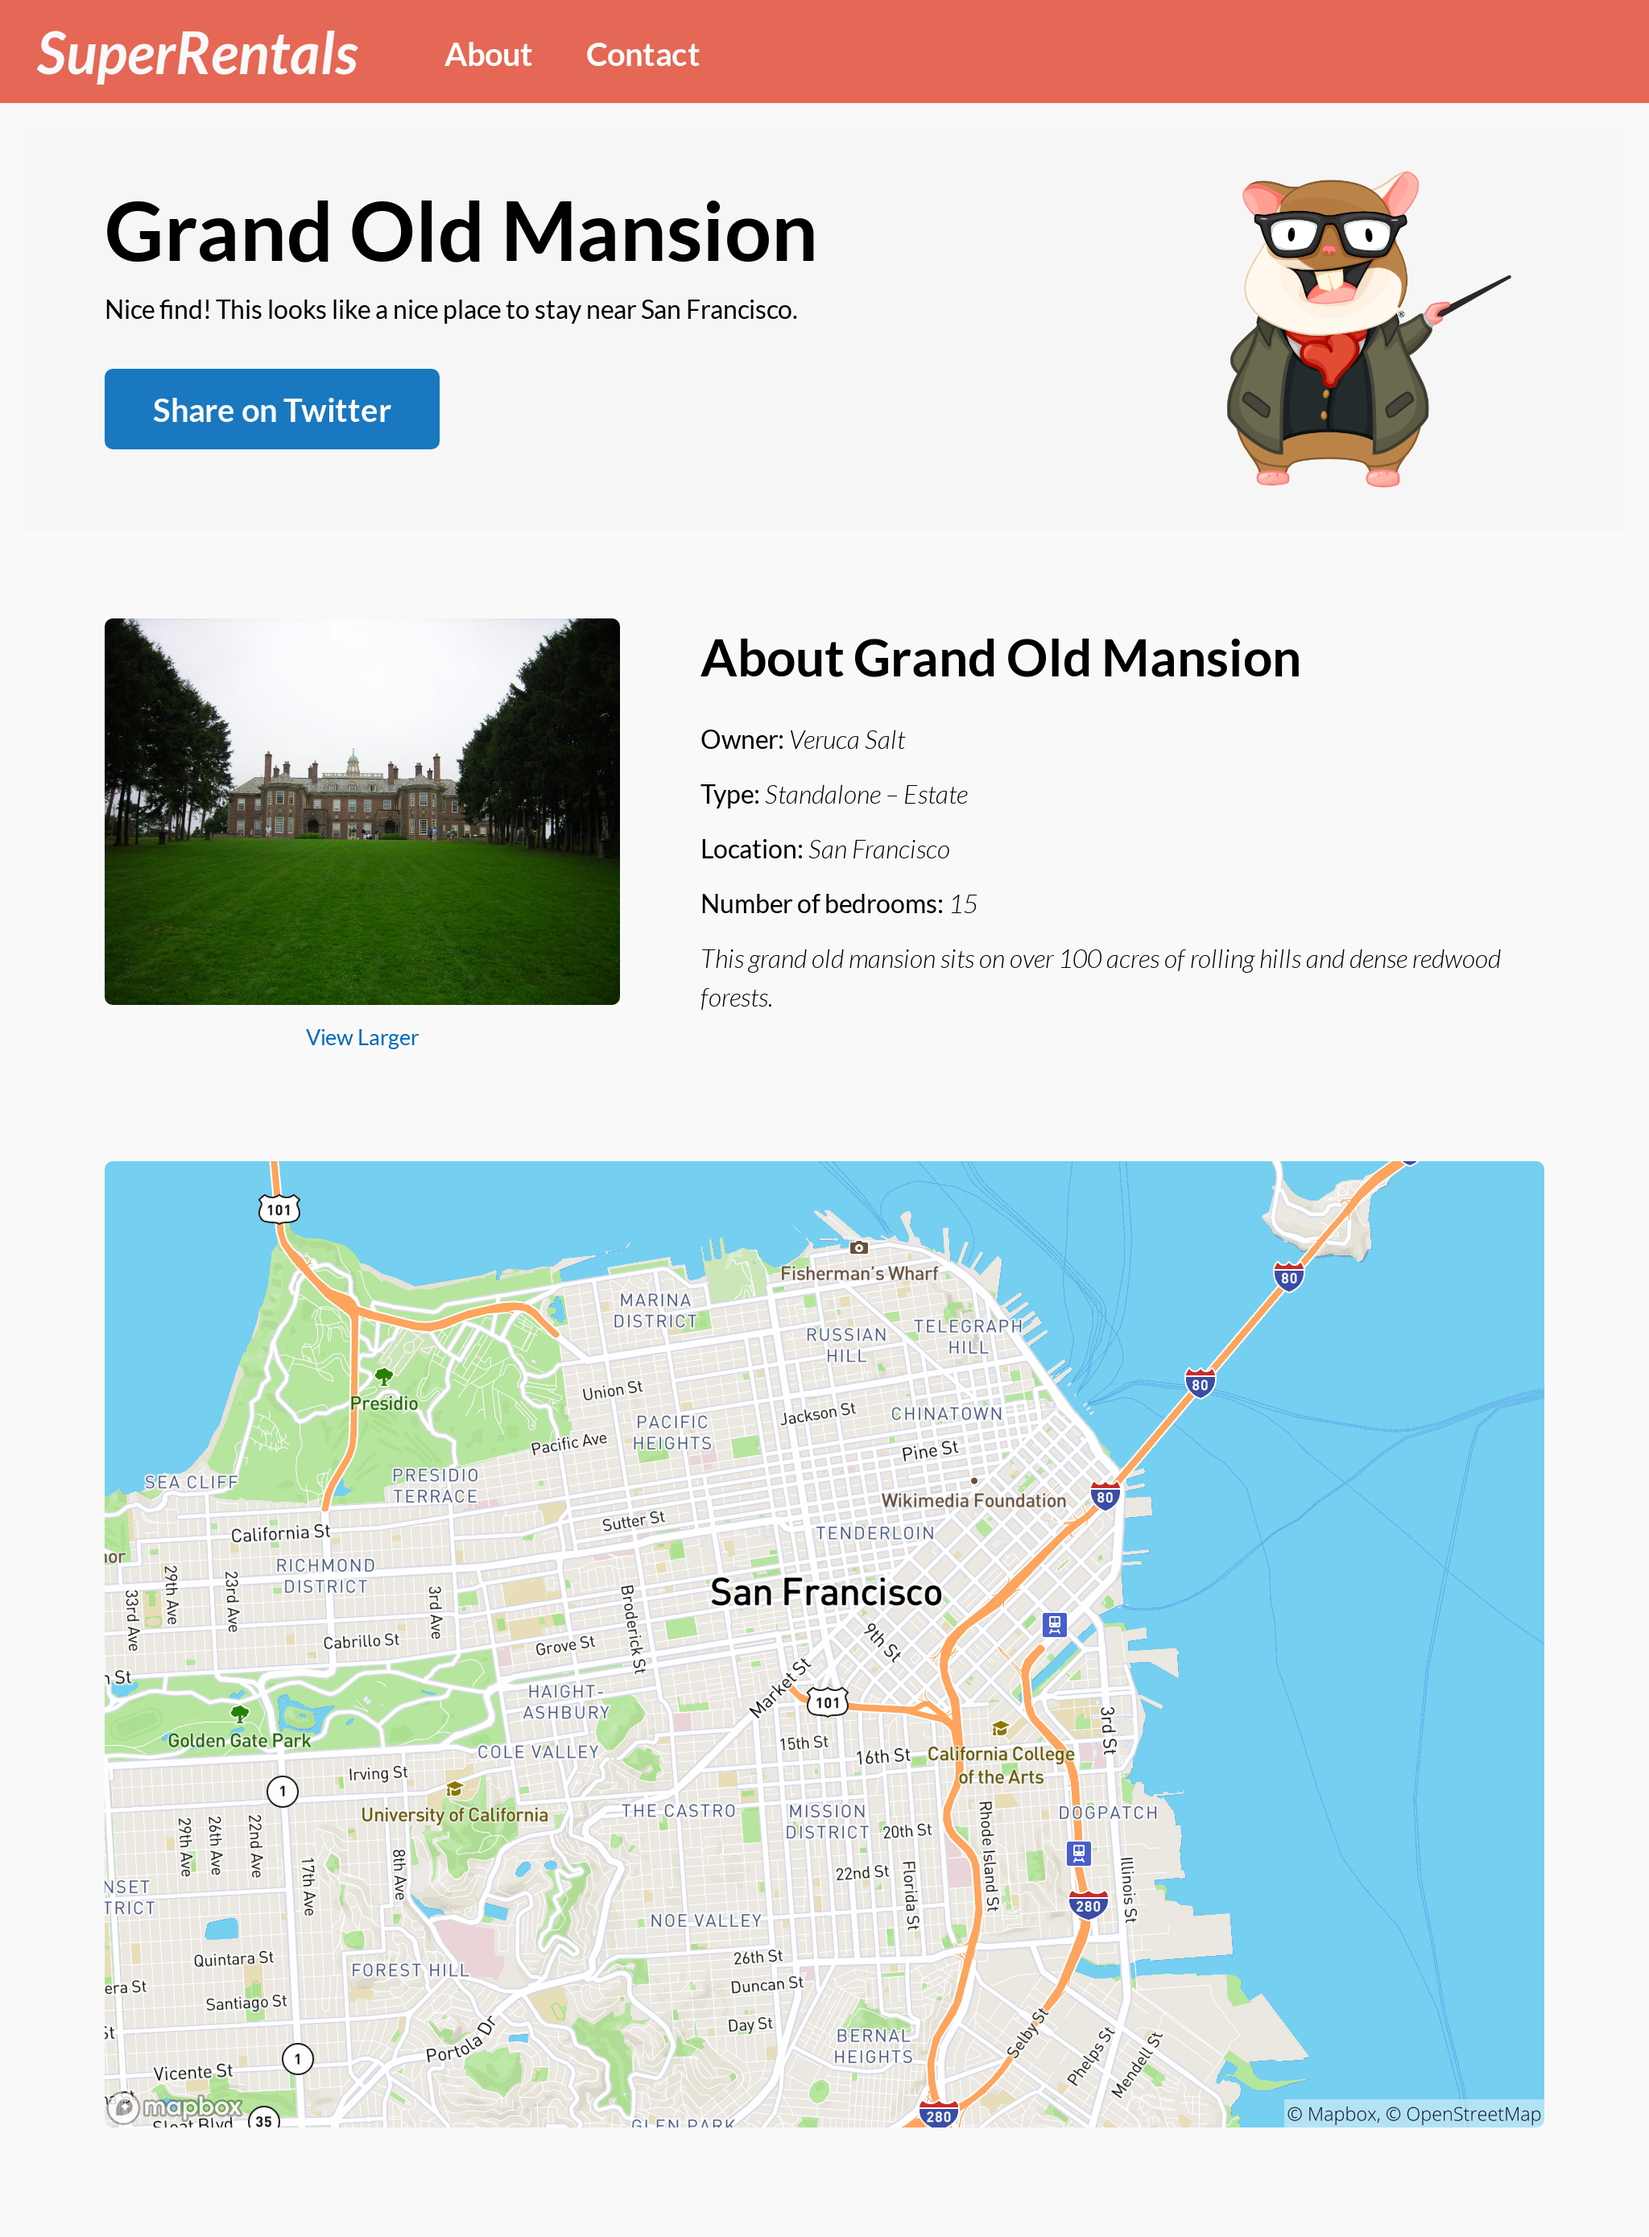
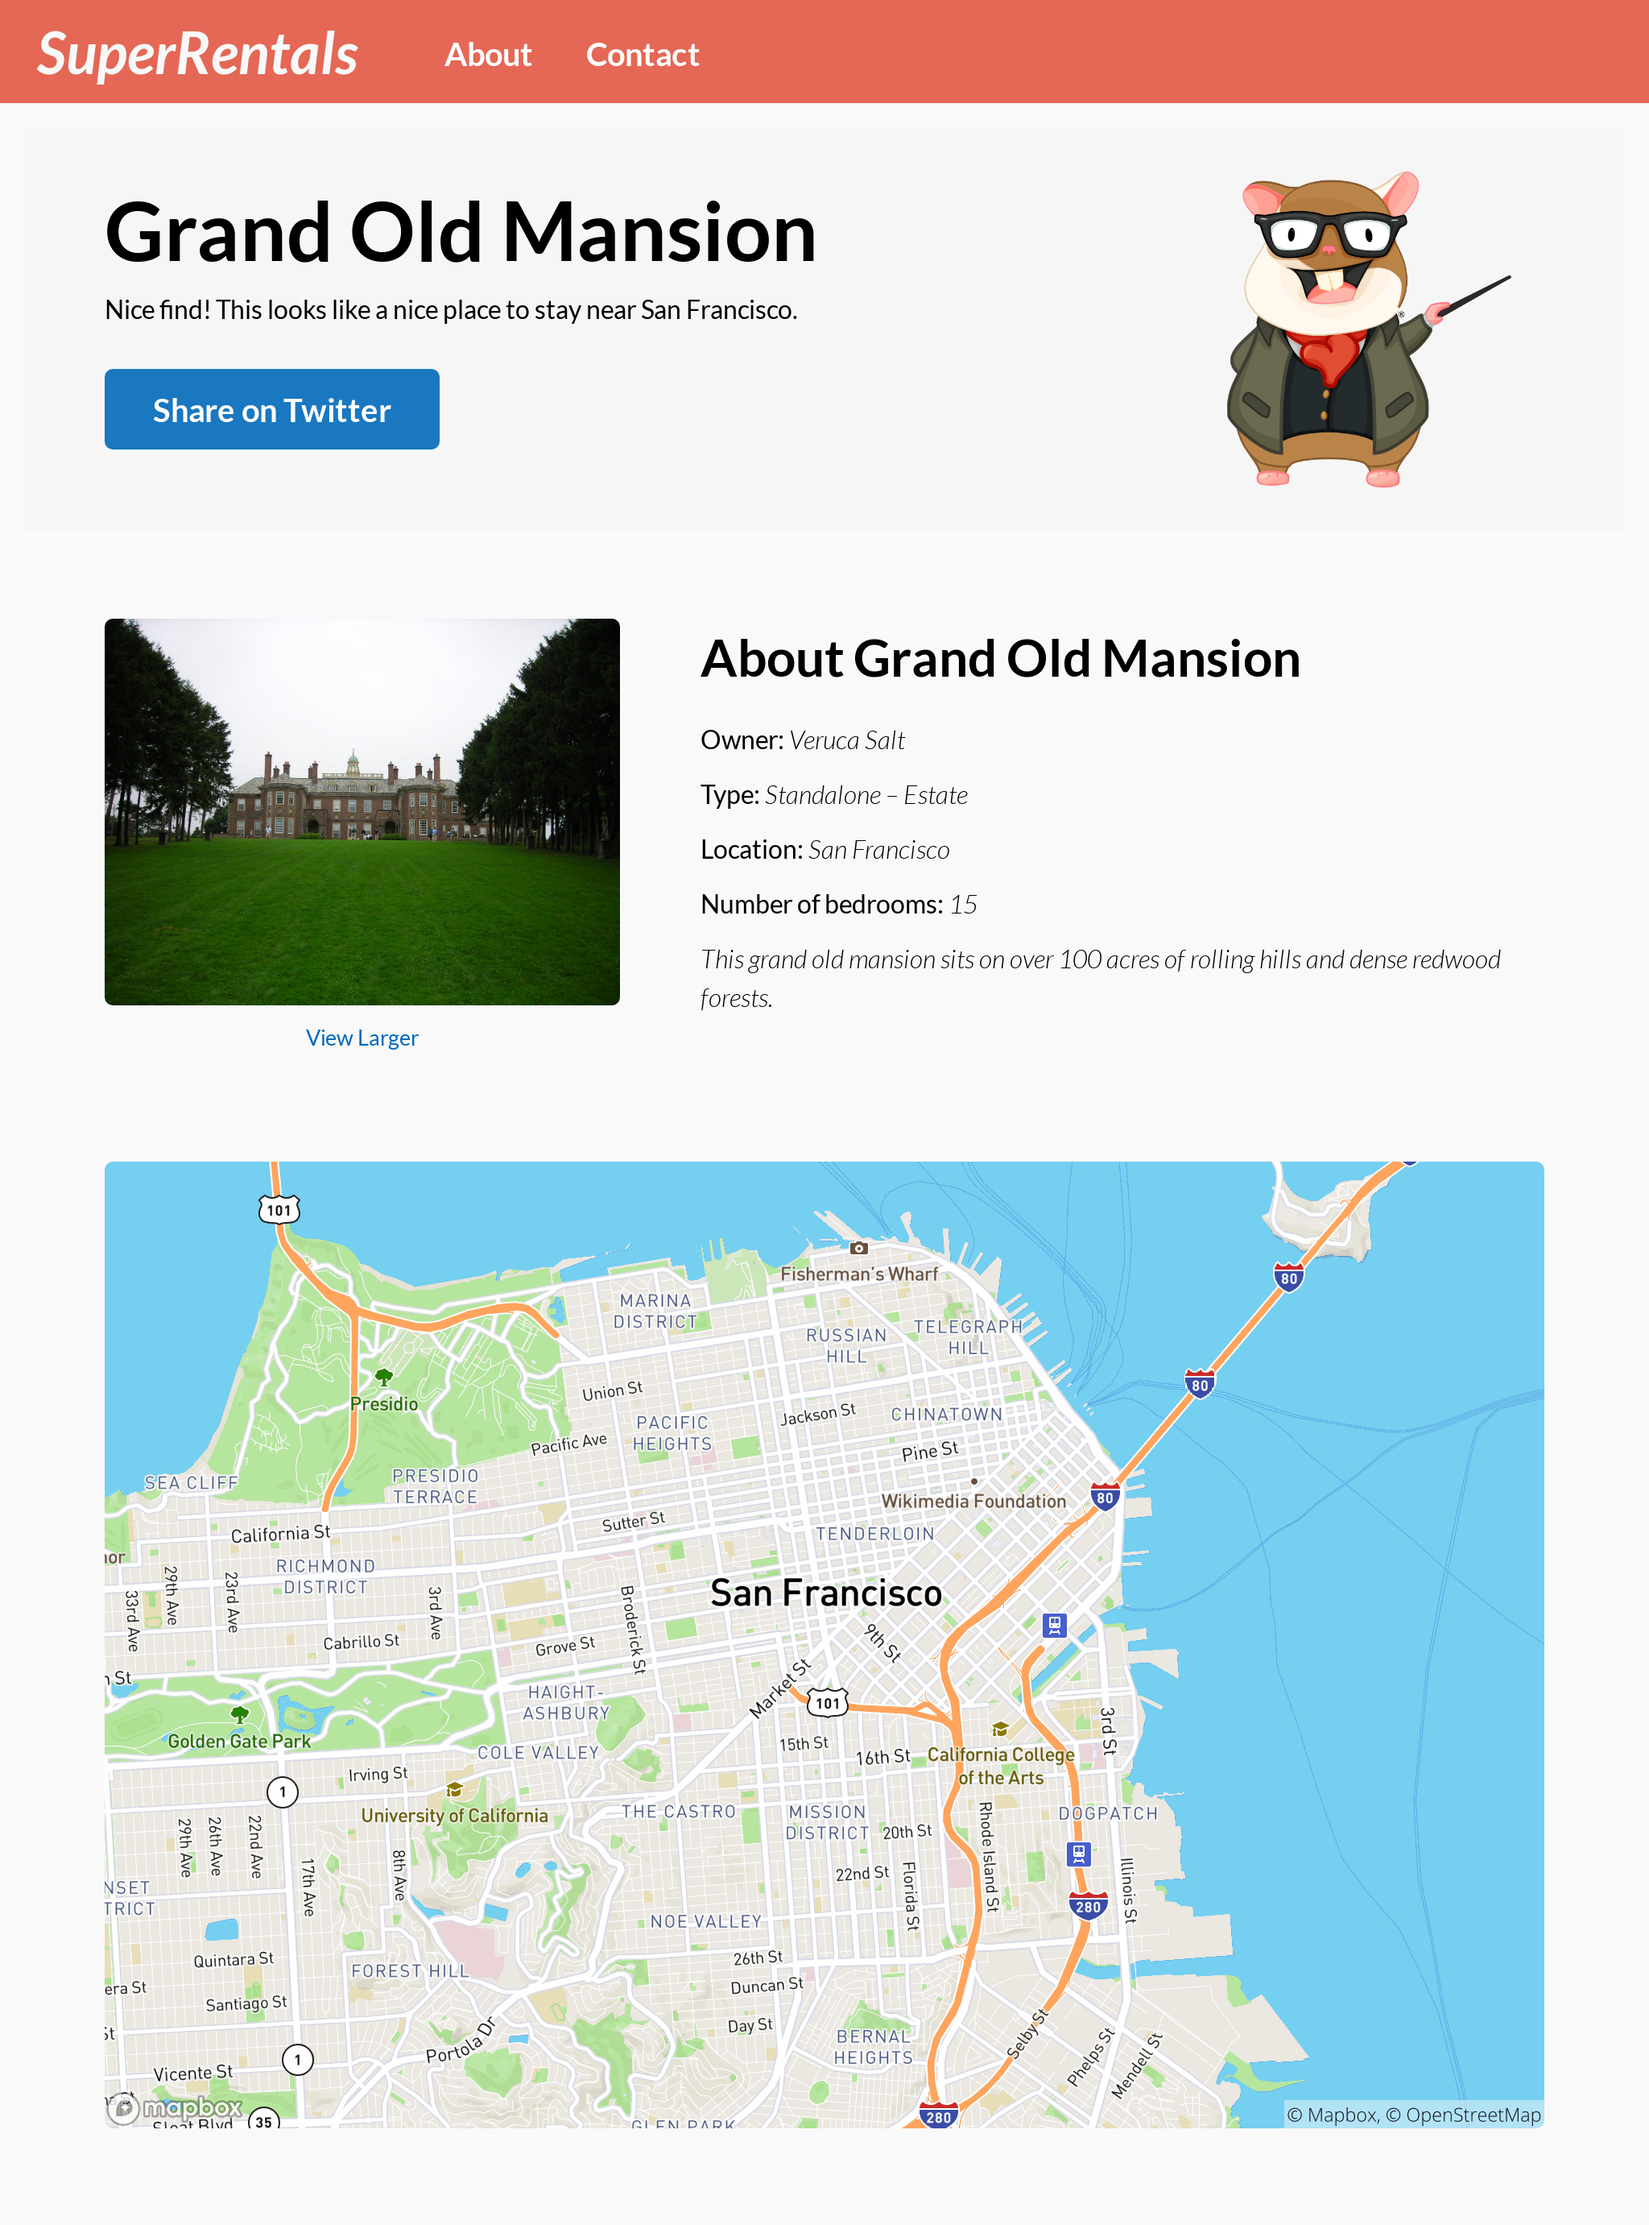
[CRON] Saturday Mar 20, 2021
---

Commit:  ember-learn/super-rentals-tutorial@d09b6539a6a7def6b8a504cc212cad0fcbc39504
Script:  https://github.com/ember-learn/super-rentals-tutorial/blob/d09b6539a6a7def6b8a504cc212cad0fcbc39504/.github/workflows/build.yml
Logs:    https://github.com/ember-learn/super-rentals-tutorial/commit/d09b6539a6a7def6b8a504cc212cad0fcbc39504/checks

diff --git a/guides/release/tutorial/part-2/service-injection.md b/guides/release/tutorial/part-2/service-injection.md
@@ -4,7 +4,7 @@ As promised, we will now work on implementing the share button!
 
 <!-- TODO: make this a gif instead -->
 
-<img src="/images/tutorial/part-2/service-injection/share-button@2x.png" alt="The working share button by the end of the chapter" width="1024" height="1389">
+<img src="/images/tutorial/part-2/service-injection/share-button@2x.png" alt="The working share button by the end of the chapter" width="1024" height="1381">
 
 While adding the share button, you will learn about:
 
@@ -175,7 +175,7 @@ Let's put this component to use by invoking it from the `<Rental::Detailed>` com
 
 With that, we should have a working share button!
 
-<img src="/images/tutorial/part-2/service-injection/share-button@2x.png" alt="A share button that works!" width="1024" height="1389">
+<img src="/images/tutorial/part-2/service-injection/share-button@2x.png" alt="A share button that works!" width="1024" height="1381">
 
 <div class="cta">
   <div class="cta-note">
